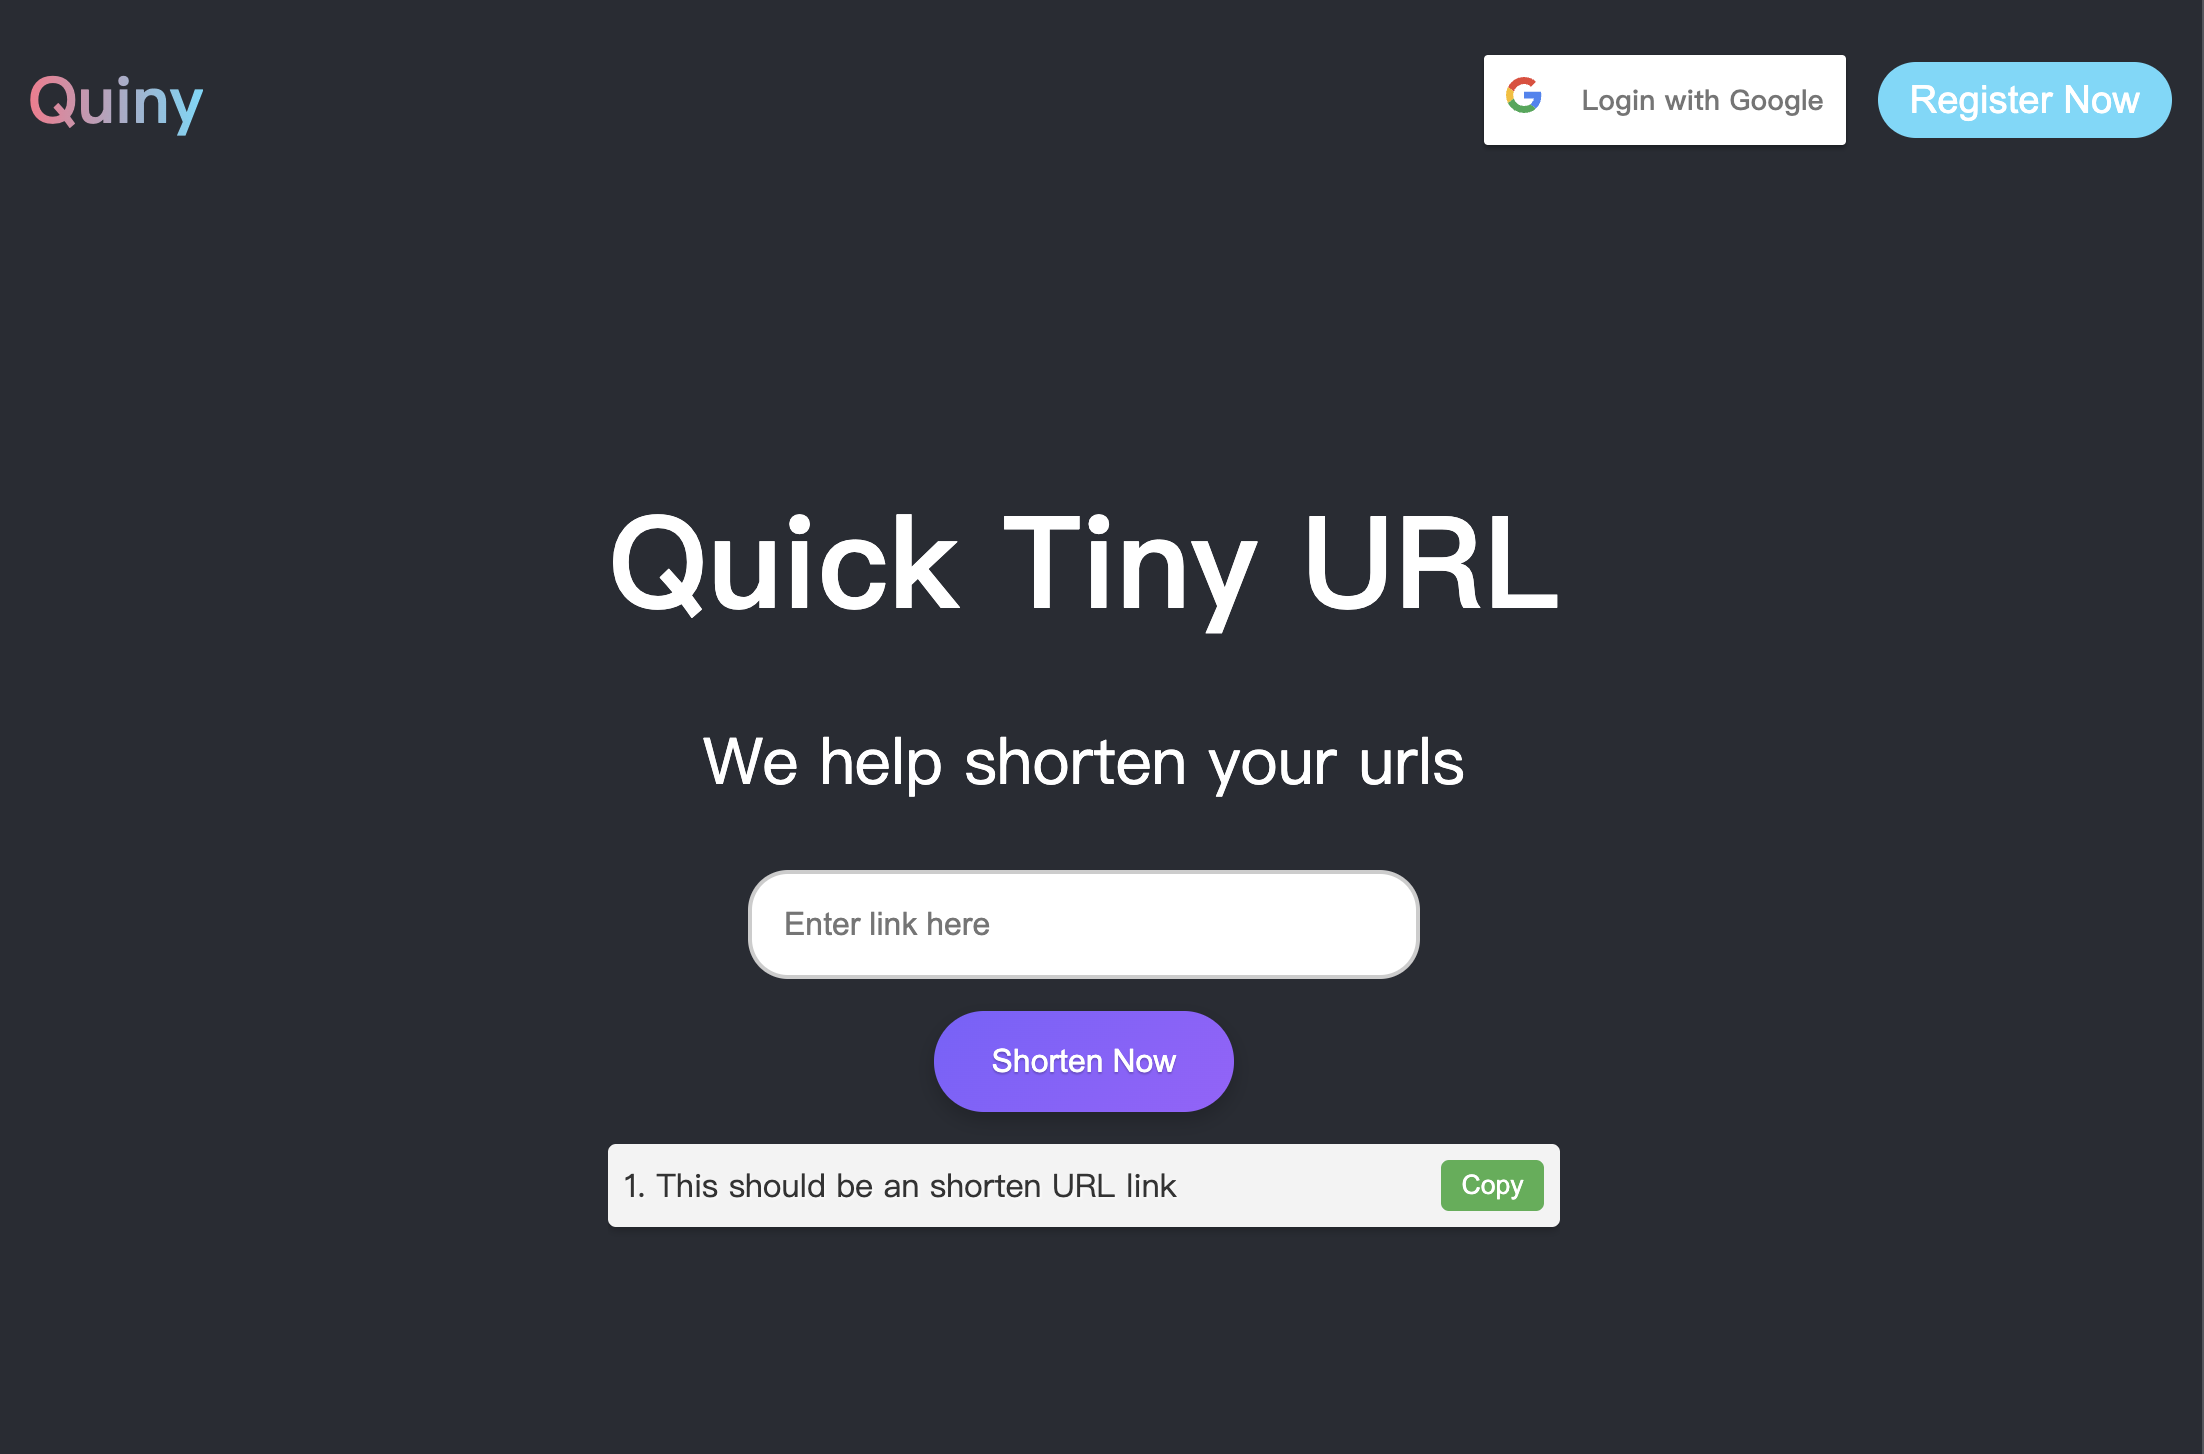
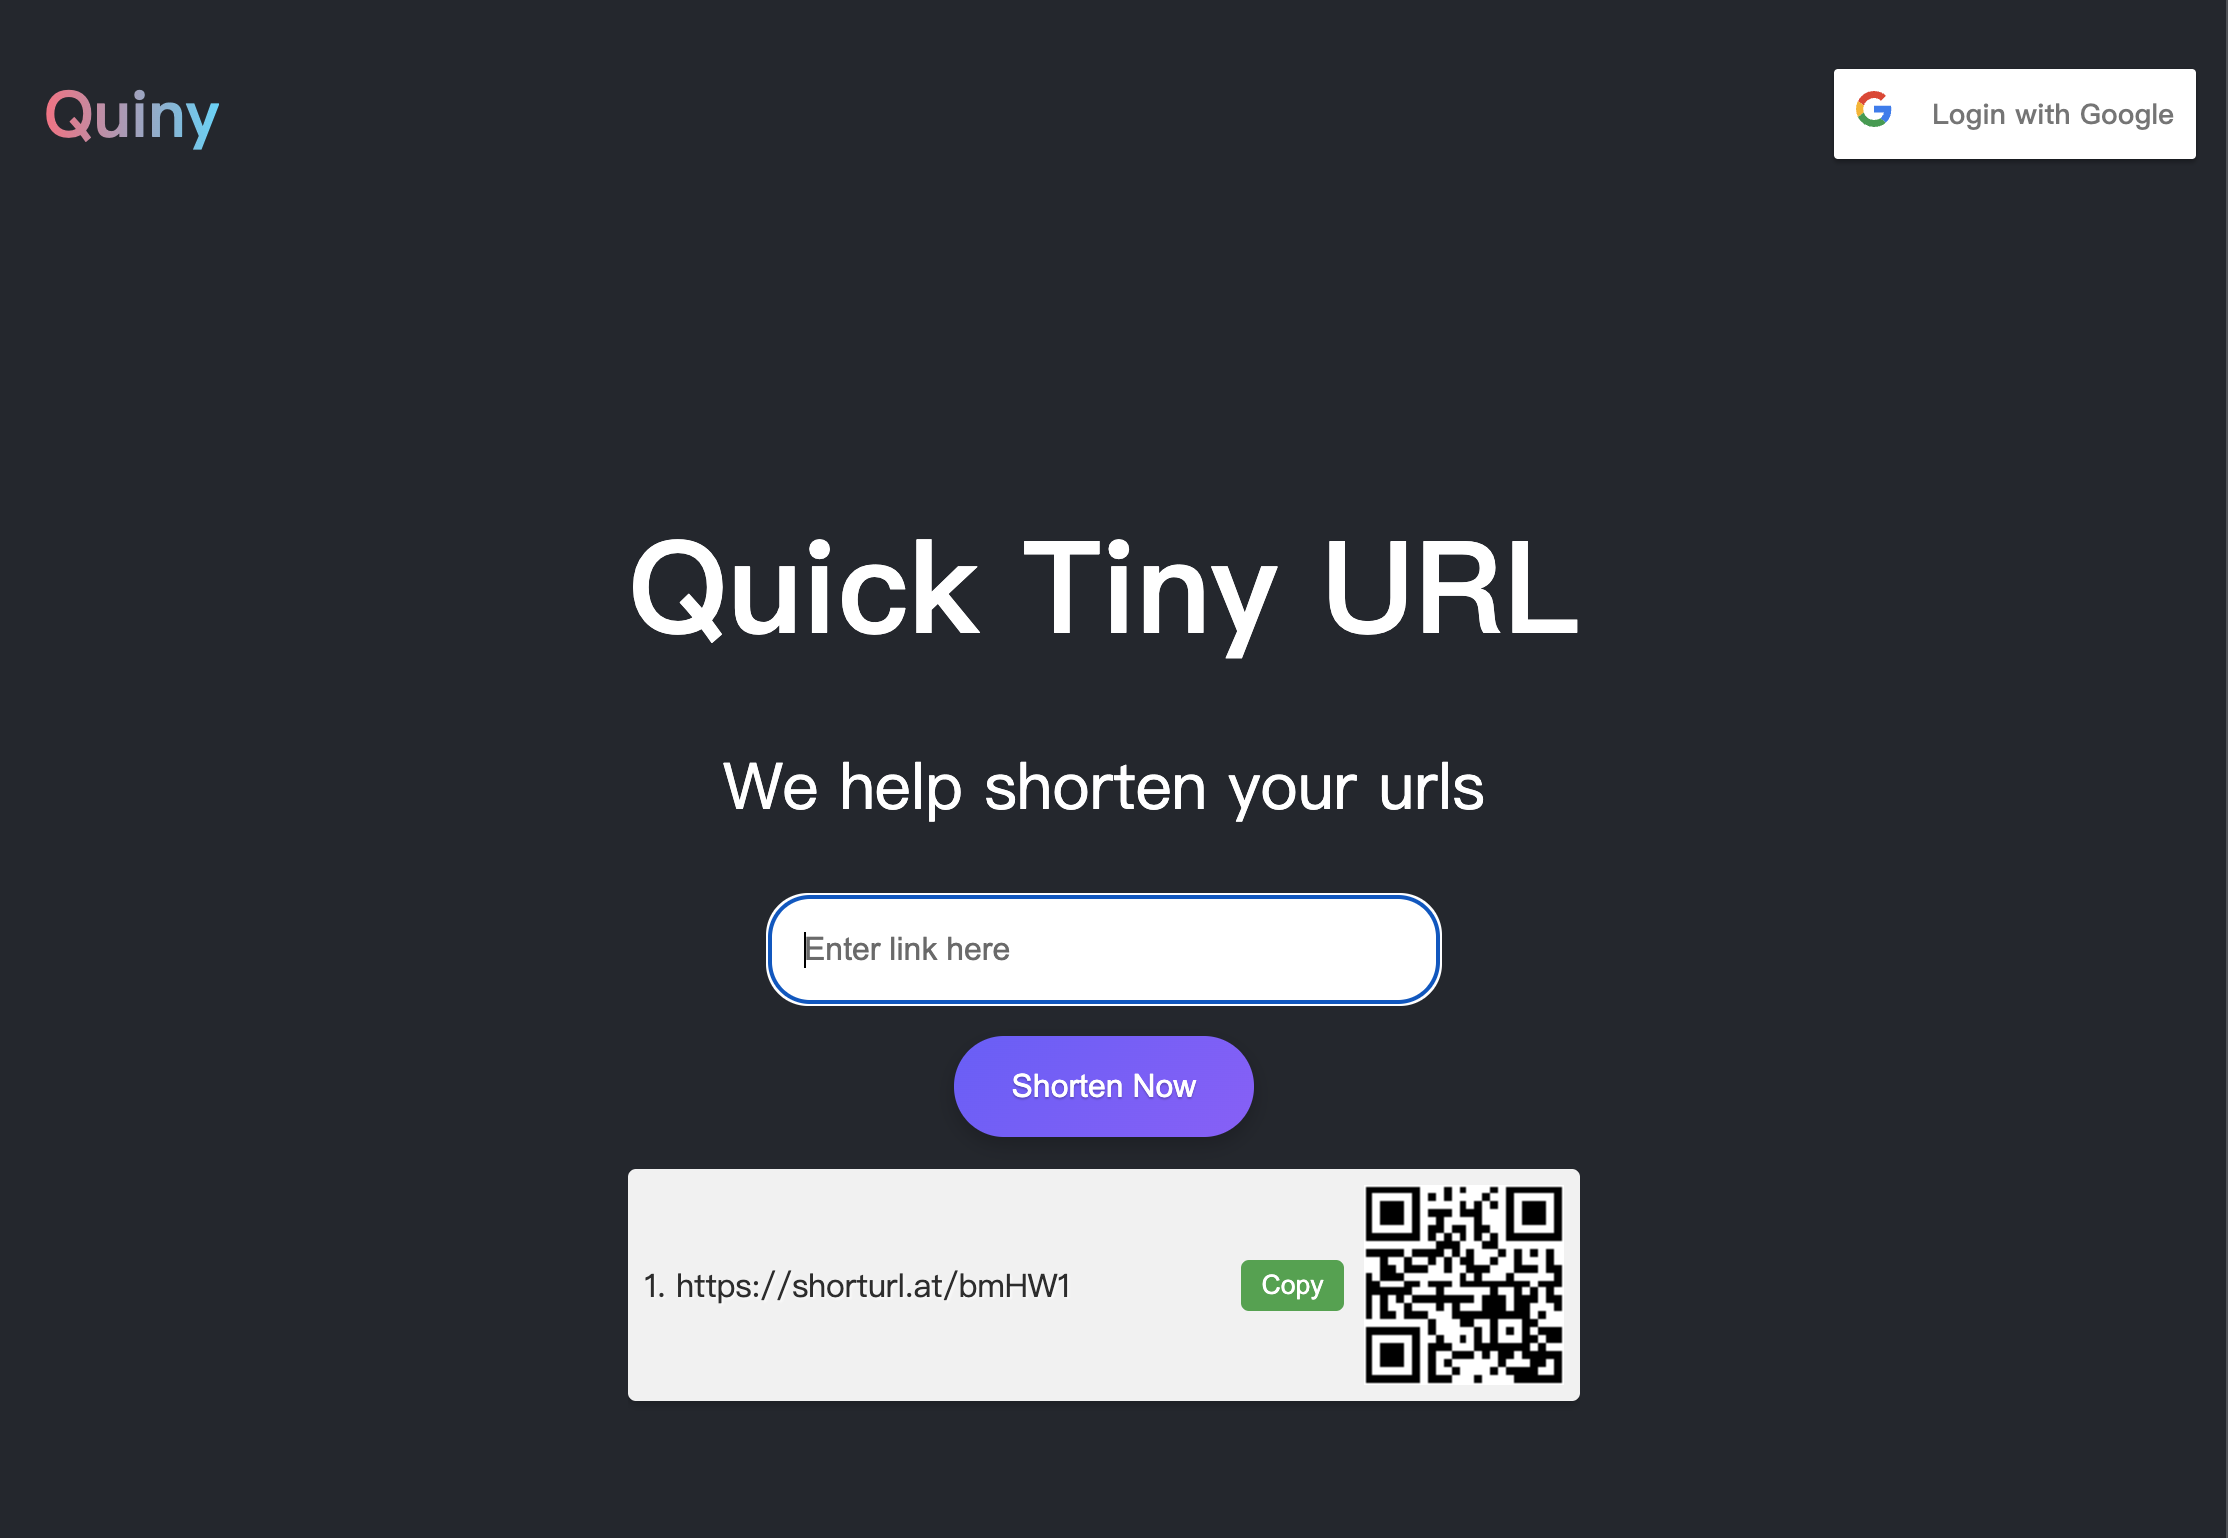
Add QRcode feature and Modify README

diff --git a/src/components/URLShortenerForm.js b/src/components/URLShortenerForm.js
@@ -47,6 +47,13 @@ const URLShortenerForm = () => {
         console.error("Could not copy text: ", err);
       });
   };
+
+  // Function to generate the QR code URL
+  const generateQRCodeURL = (text) => {
+    const encodedText = encodeURIComponent(text); // URL-encode the text
+    return `https://api.qrserver.com/v1/create-qr-code/?data=${encodedText}&size=100x100`;
+  };
+
   return (
     <div className="url-shortener-form-container">
       <h2 className="h2-text">Quick Tiny URL</h2>
@@ -74,6 +81,12 @@ const URLShortenerForm = () => {
               >
                 {copied[index] ? "Copied" : "Copy"}
               </button>
+              {/* QR Code Image */}
+              <img
+                src={generateQRCodeURL(savedUrl)}
+                alt="QR Code"
+                className="qr-code-image"
+              />
             </li>
           ))}
         </ul>

diff --git a/src/components/URLShortenerForm.css b/src/components/URLShortenerForm.css
@@ -89,6 +89,10 @@
   padding: 0.5rem;
 }
 
+.url-list-item span {
+  flex-grow: 1; /* Allows the URL to take up available space */
+}
+
 .copy-button {
   margin-left: 10px;
   padding: 5px 10px;
@@ -111,4 +115,11 @@
 .copy-button,
 .copy-button.copied {
   transition: background-color 0.3s;
+}
+
+.qr-code-image {
+  margin-left: 10px; /* Adjust as needed */
+  width: 100px; /* Adjust based on the size of the QR code */
+  height: 100px; /* Adjust based on the size of the QR code */
+  order: 2;
 }

diff --git a/README.md b/README.md
@@ -5,6 +5,13 @@ This project is for COMP 539
 Before you use this project, please do `npm install` at first to download\
 required packages.
 
+### Usage
+
+Create an `.env` file at the top of directory, so that the Google Login API can work correctly.
+
+Add following:
+`REACT_APP_GOOGLE_CLIENT_ID={YOUR GOOGLE CLINET ID}`
+
 ### Frontend Preview
 
 <img src="imgs/origin.png" width="600" height="400">
